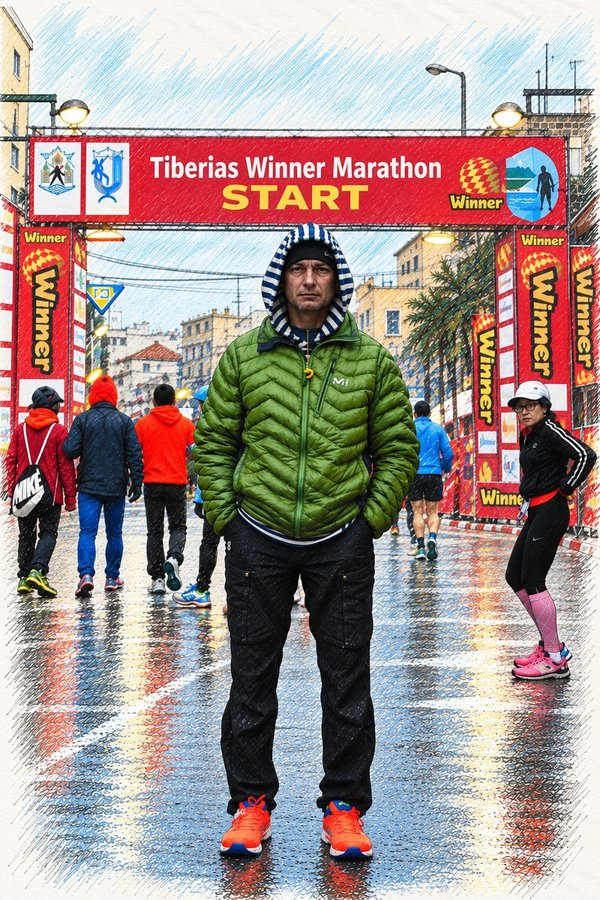
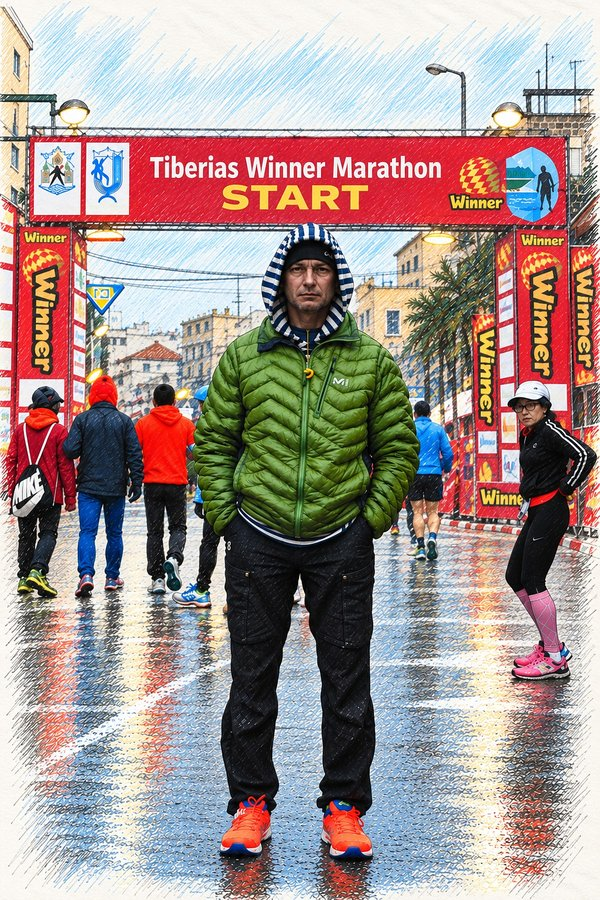
Иллюстрация Тверии из оригинала 1200×1800
Claude-Session: https://claude.ai/code/session_017Vh8WSDHrDE5J2gaAnBWqh

diff --git a/book-site/index.html b/book-site/index.html
@@ -80,9 +80,9 @@
     <div class="split">
       <div class="start__big">
         <img class="start__img" src="assets/img/tiberias-2015.jpg"
-             srcset="assets/img/tiberias-2015-600.jpg 600w, assets/img/tiberias-2015.jpg 1000w"
+             srcset="assets/img/tiberias-2015-600.jpg 600w, assets/img/tiberias-2015.jpg 1200w"
              sizes="(max-width: 700px) 100vw, 33vw"
-             width="1000" height="1500" loading="lazy"
+             width="1200" height="1800" loading="lazy"
              alt="Юрий Строфилов у арки старта марафона в Тверии, 9 января 2015 года, иллюстрация">
         <div class="start__num">3:09</div>
         <p class="start__place">Тверия, 9 января 2015, перед стартом</p>
